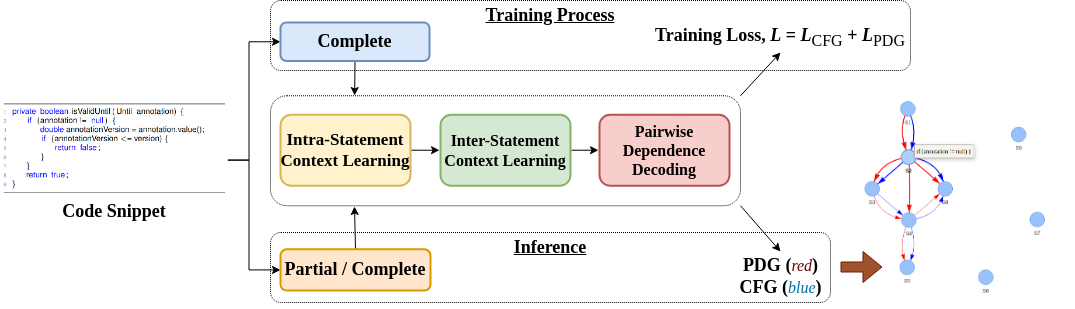
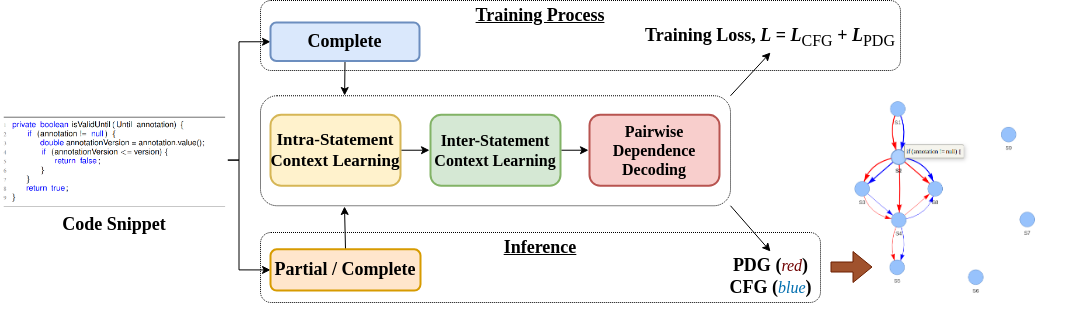
Fix symmetry in Figure 1

diff --git a/icse23-demo-sections/related.tex b/icse23-demo-sections/related.tex
@@ -4,12 +4,12 @@
 
 %\subsection{Probabilistic Graphical Models}
 We seek inspiration for our problem formulation from Chen and Manning~\cite{chen-manning-2014-fast}, who first proposed a neural network-based approach to dependency parsing. 
-%The major benefits include a significant speedup in dependency discovery and the extendibility of program dependence analysis to partial programs. 
+%The major benefits we envision include a significant speedup in dependency discovery and the extendibility of program dependence analysis to partial programs. 
 %In SE domain, 
 Specific to the SE domain, this research is loosely related to works that leverage probabilistic models to enhance the program dependence graph (PDG).
 Probabilistic PDG~\cite{baah-issta08-probabilistic} is an augmentation of the structural dependencies represented by a PDG with estimates of statistical dependencies between node states derived from test cases. 
 Feng et al.~\cite{feng-paste10} propose Error-Flow Graph as a Bayesian Network, constructed from the dynamic dependence graphs of the runs. 
 Bayesian Network-based Program Dependence Graph (BNPDG)~\cite{yu-jss17-bayesian} is capable of inferring the dependencies across non-adjacent nodes. 
 %MOAD (Modeling Observation-based Approximate Dependency)~\cite{lee-scam19-moad} reformulates program dependency as the likelihood that one program element is dependent on another, instead of a boolean relationship.  
-%Lee~\cite{lee-icse20} proposes a scalable approximate program dependence analysis by estimating the likelihood of dependence. It uses lexical analysis~\cite{lee-jss20}, partial observations on executions, and the merging of static and observation-based approaches. 
+%Lee~\cite{lee-icse20} proposes a scalable approximate program dependence analysis by estimating the likelihood of dependence.  It uses lexical analysis~\cite{lee-jss20}, partial observations on executions, and the merging of static and observation-based approaches. 
 These approaches leverage the knowledge from the executions to enhance the PDG for complete code. In contrast, we aim to use neural networks for deriving dependencies for both partial and complete code.

diff --git a/icse23-demo-sections/intro.tex b/icse23-demo-sections/intro.tex
@@ -21,7 +21,7 @@ programs.
     \includegraphics[width=\textwidth]{icse23-demo-figures/demo-arch3.png}
     \caption{\tool training and inference pipeline to enable dependence analysis for both partial and complete code.}
     \label{fig:model}
-    \vspace{-10pt}
+    \vspace{-8pt}
 \end{center}
 \end{figure*}
 

diff --git a/icse23-demo-sections/screenshot2.tex b/icse23-demo-sections/screenshot2.tex
@@ -40,4 +40,5 @@
 %%%%%%%%%%%%%%%%%%%%%%%%%%%%%%%%%%%%%%%%%%%%
 \caption{Partial (top-left) and complete (top-right) Java code listings and their CFG/PDGs output by \tool (bottom).}
 \label{fig:demo}
+\vspace{-8pt}
 \end{figure*}
